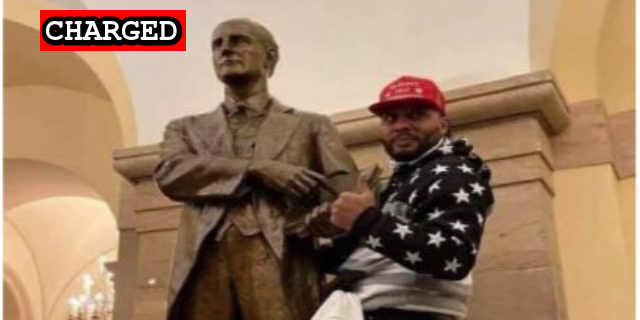
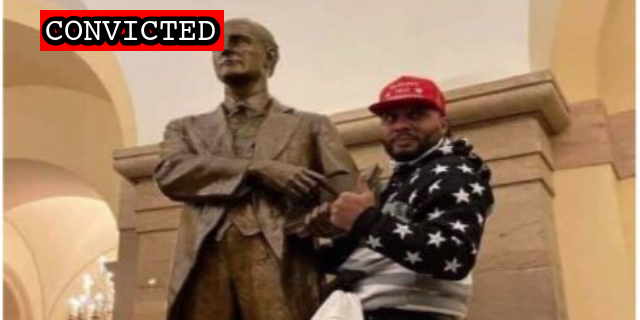
Latest import

Changed region(s): [[0.0625, 0.0312, 0.375, 0.1562]]

diff --git a/docs/_suspects/kash-kelly.md b/docs/_suspects/kash-kelly.md
@@ -4,16 +4,16 @@ lastName: Kelly
 hashtag: KashKelly
 aka:
 residence: Illinois
-status: Charged
+status: Convicted
 date: 2021-01-14
 charged: 2021-01-14
 indicted:
-convicted:
+convicted: 2022-11-10
 acquitted:
 sentenced:
 dismissed:
 deceased:
-plea_hearing:
+plea_hearing: 2022-11-10
 trial_date:
 trial_type:
 sentencing:
@@ -31,7 +31,7 @@ raid:
 perpwalk:
 quote:
 title: Kash Kelly charged on January 14, 2021
-description: Click for latest case details. Suspects considered innocent until proven guilty.
+description: Convicted on November 10, 2022. Click for latest case details.
 author: seditiontrack
 layout: suspect
 published: true
@@ -40,7 +40,14 @@ caseName: USA v. KELLY
 judge: James E. Boasberg
 videos:
 charges:
+- code: 40 USC § 5104(e)(2)(G)
+  title: Parading, demonstrating or picketing in a Capitol building
+  url: https://www.law.cornell.edu/uscode/text/40/5104
+  felony: false
 sentence:
 ---
 - [News Report](https://www.nwitimes.com/news/update-hammond-man-charged-by-feds-in-capitol-siege/article_3e13f9f1-f6f3-5034-a712-5bbf2f80eb9f.html)
 - [Statement of Facts](https://extremism.gwu.edu/sites/g/files/zaxdzs2191/f/Kash%20Lee%20Kelly%20Statement%20of%20Facts.pdf)
+- [Information](https://extremism.gwu.edu/sites/g/files/zaxdzs2191/f/Kash%20Lee%20Kelly%20Information.pdf)
+- [Plea Agreement](https://extremism.gwu.edu/sites/g/files/zaxdzs2191/f/Kash%20Lee%20Kelly%20Plea%20Agreement.pdf)
+- [Statement of Offense](https://extremism.gwu.edu/sites/g/files/zaxdzs2191/f/Kash%20Lee%20Kelly%20Statement%20of%20Offense.pdf)
